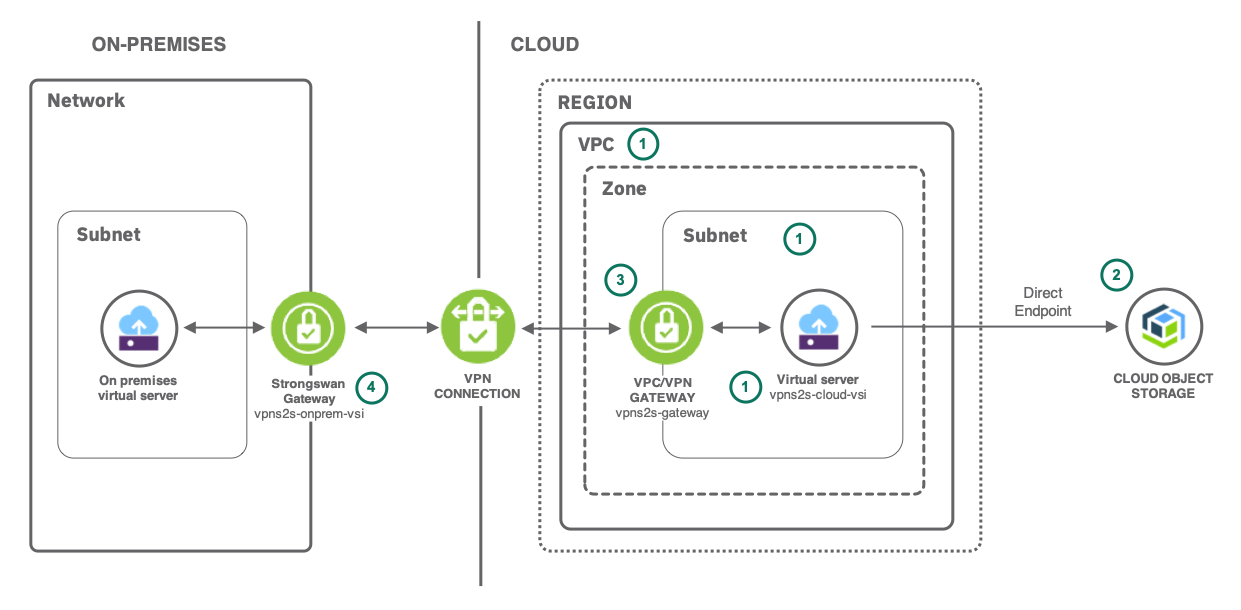
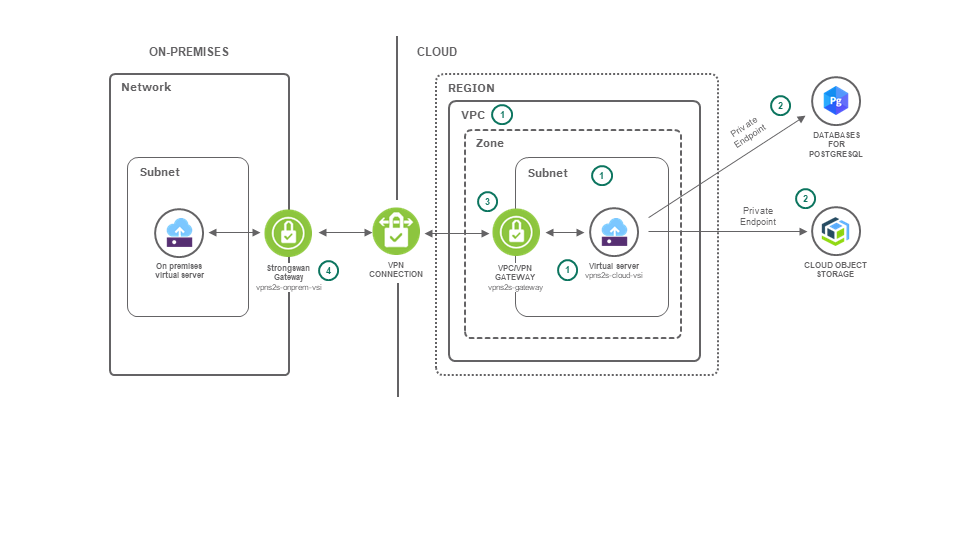
updates for Issue 1469
Updates for https://github.ibm.com/bluemix/cloud-portfolio-solutions/issues/1469
- Added a section for PostgreSQL
- Updated diagram to include PostgreSQL

diff --git a/vpc-site2site-vpn.md b/vpc-site2site-vpn.md
@@ -60,7 +60,7 @@ The following diagram shows the virtual private cloud containing an app server. 
 ![Architecture](images/solution46-vpc-vpn/ArchitectureDiagram.png)
 
 1. The infrastructure (VPC, Subnets, Security Groups with rules, Network ACL and VSIs) are set up using a provided script.
-2. The microservice interfaces with {{site.data.keyword.cos_short}} through a direct endpoint.
+2. The microservice interfaces with {{site.data.keyword.cos_short}} and {{site.data.keyword.databases-for-postgresql}} through private endpoints.
 3. A VPC/VPN Gateway is provisioned to expose the virtual private cloud environment to the on-premises network.
 4. The Strongswan open source IPsec gateway software is used on-premises to establish the VPN connection with the cloud environment.
 
@@ -92,6 +92,8 @@ The tutorial uses scripts to deploy a baseline of infrastructure resources befor
    {: codeblock}
 
 ### Create services
+
+#### {{site.data.keyword.cos_short}}
 In this section, you will login to {{site.data.keyword.cloud_notm}} on the CLI and create an instance of {{site.data.keyword.cos_short}}.
 
 1. Verify that you have followed the prerequisite steps of logging in
@@ -116,6 +118,32 @@ In this section, you will login to {{site.data.keyword.cloud_notm}} on the CLI a
 4. Obtain the service key details in JSON format and store it in a new file **credentials.json** in the subdirectory **vpc-app-cos**. The file will be used later on by the app.
    ```sh
    ibmcloud resource service-key vpns2s-cos-key --output json > vpc-app-cos/credentials.json
+   ```
+   {: codeblock}
+
+#### {{site.data.keyword.databases-for-postgresql}}
+In this section, you will login to {{site.data.keyword.cloud_notm}} on the CLI and create an instance of {{site.data.keyword.databases-for-postgresql}}.
+
+1. Verify that you have followed the prerequisite steps of logging in
+    ```sh
+    ibmcloud target
+    ```
+    {: codeblock}
+2. Create an instance of [{{site.data.keyword.databases-for-postgresql}}](https://{DomainName}/catalog/services/databases-for-postgresql) using a **standard** plan.
+   ```sh
+   ibmcloud resource service-instance-create vpns2s-pg databases-for-postgresql databases-for-postgresql-standard <region_name> --service-endpoints private
+   ```
+   {: codeblock}
+
+
+3. Create a service key with role **Administrator**:
+   ```sh
+   ibmcloud resource service-key-create vpns2s-pg-key Administrator --instance-name vpns2s-pg
+   ```
+   {: codeblock}
+4. Obtain the service key details in JSON format and store it in a new file **pg_credentials.json** in the subdirectory **nodejs-graphql/config**. The file will be used later on by the app.
+   ```sh
+   ibmcloud resource service-key vpns2s-cos-key --output json > nodejs-graphql/config/pg_credentials.json
    ```
    {: codeblock}
 
